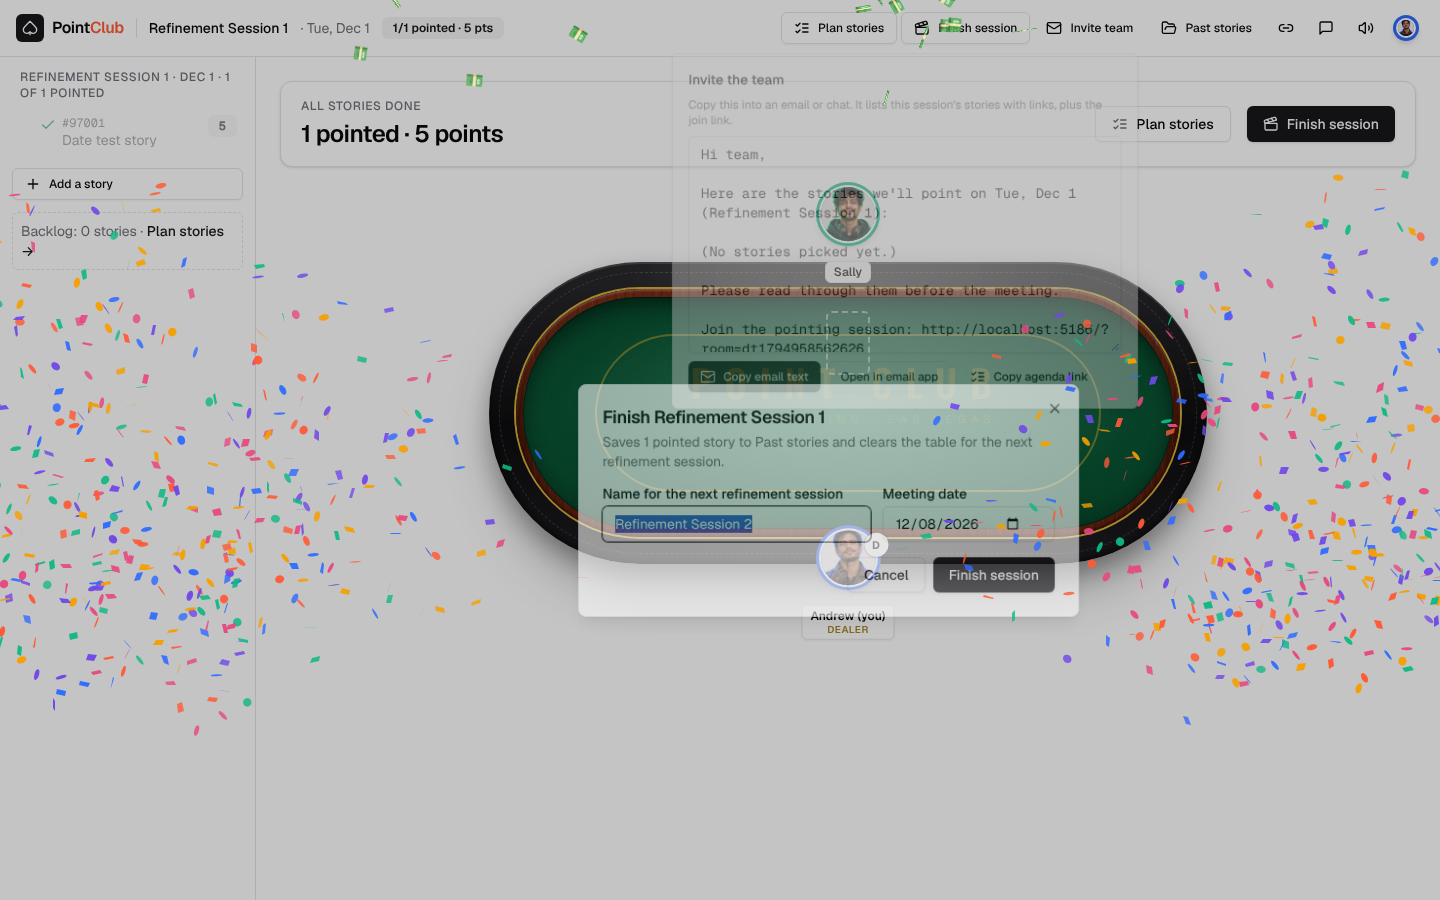
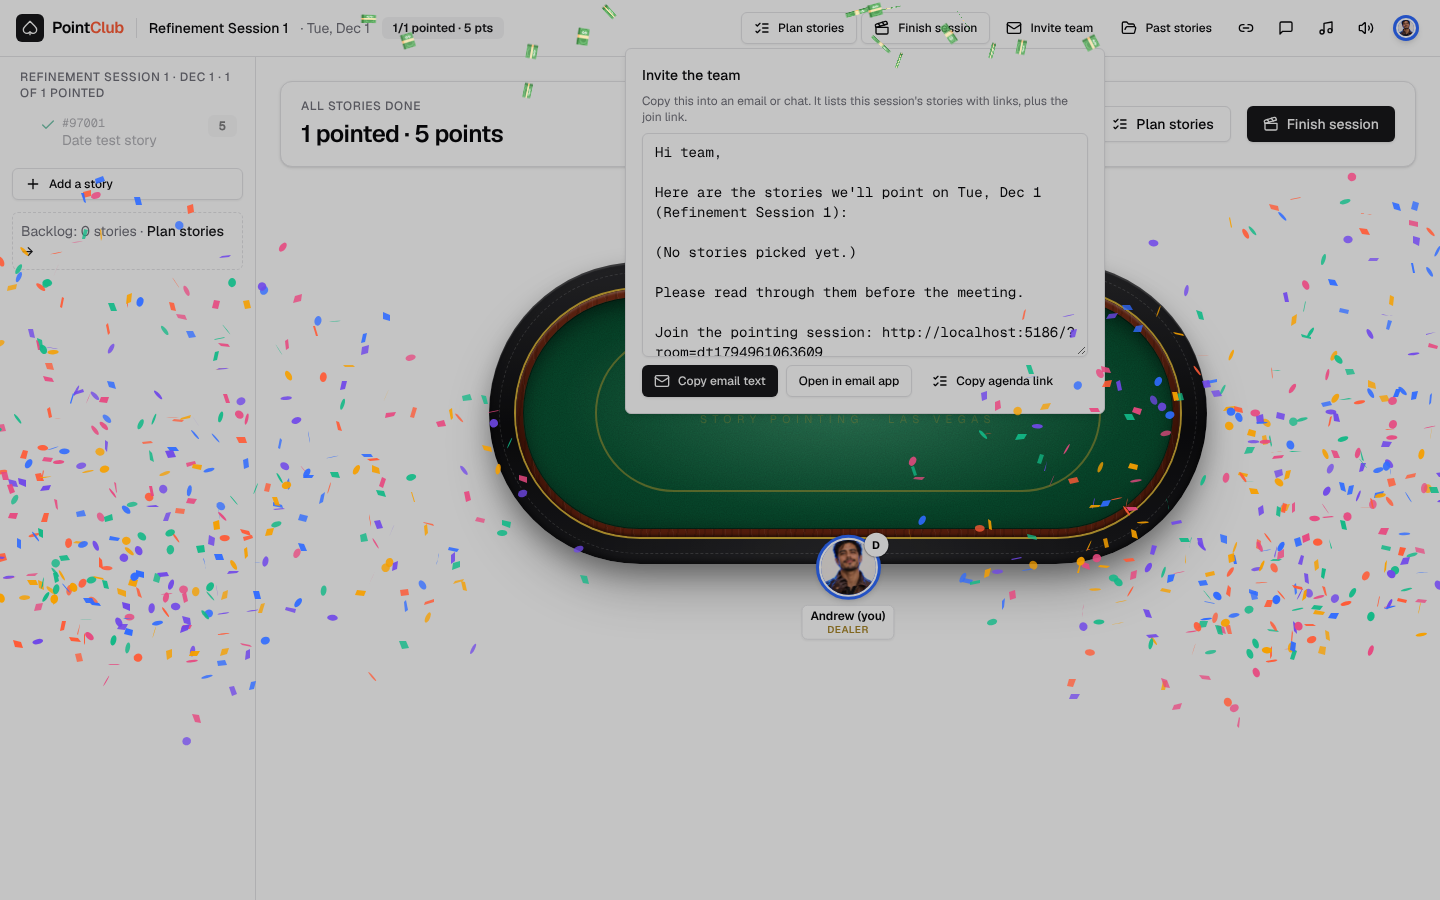
Music follows the dealer: pick any story to start, voting music from the first card, music switch for everyone
- Intro music plays until the dealer clicks any story (any order); no Let's start button
- Stories aren't opened automatically before the session starts; the dealer chooses
- Voting music starts with the first card played and stops once everyone has voted
- Dealer's Music button turns music off or on for the whole table (others see 'Music off')
- Avatar screen: Back to the table button

Claude-Session: https://claude.ai/code/session_01EANrJrMtc4n72hiZrseqCf

diff --git a/src/screens/Theater.tsx b/src/screens/Theater.tsx
@@ -1,6 +1,6 @@
 import { useEffect, useRef, useState } from 'react'
 import { AnimatePresence, motion } from 'framer-motion'
-import { Camera, Clapperboard, Crown, ExternalLink, FolderOpen, Link2, RotateCcw, Volume2, VolumeX, UserRound, Eye, Check, Circle, MessageSquare, MessageSquareOff, ArrowRight, SkipForward, ListChecks, Undo2, Plus, Minus, Trash2, Mail, ArrowUpToLine } from 'lucide-react'
+import { Camera, Clapperboard, Crown, ExternalLink, FolderOpen, Link2, RotateCcw, Volume2, VolumeX, UserRound, Eye, Check, Circle, MessageSquare, MessageSquareOff, ArrowRight, SkipForward, ListChecks, Undo2, Plus, Minus, Trash2, Mail, ArrowUpToLine, Music } from 'lucide-react'
 import { Avatar } from '@/components/Avatar'
 import { PokerTable } from '@/components/PokerTable'
 import { TicketCard, label } from '@/components/TicketCard'
@@ -19,7 +19,7 @@ import { SortableList } from '@/components/SortableList'
 import { NewSprint } from './NewSprint'
 import { Credits } from './Credits'
 import { CAST, castById } from '@/lib/cast'
-import { resetWalkIn, setVoicesEnabled, voice, voicesEnabled, votingMusic, walkInMusic } from '@/lib/voice'
+import { resetWalkIn, setMusicOff, setVoicesEnabled, voice, voicesEnabled, votingMusic, walkInMusic } from '@/lib/voice'
 import { blockbusterBurst, clearFx, sparkleBurst } from '@/lib/fx'
 import { isMuted, setMuted, sfx } from '@/lib/sounds'
 import { cn, sessionDate, sessionIso, sessionName } from '@/lib/utils'
@@ -45,12 +45,15 @@ function QuickAdd({ onAdd }: { onAdd: (number: string, title: string) => Promise
   )
 }
 
+/** Music note with a slash, for "music off". */
+const MusicOff = () => <span className="relative inline-grid"><Music /><span className="absolute left-1/2 top-0 h-full w-0.5 -translate-x-1/2 rotate-45 bg-current" /></span>
+
 function IconBtn({ tip, children, ...p }: React.ComponentProps<typeof Button> & { tip: string }) {
   return <Tooltip><TooltipTrigger asChild><Button variant="ghost" size="icon" aria-label={tip} {...p}>{children}</Button></TooltipTrigger><TooltipContent>{tip}</TooltipContent></Tooltip>
 }
 
 export function Theater({ api, openVault, openPlanner, onLobby }: { api: RoomApi; openVault: () => void; openPlanner: () => void; onLobby: () => void }) {
-  const { room, members, me, current, lineup, backlog, upNext, isDealer, roundVotes, myVote, isHost, result, actions, activeSprint, sprints, mode } = api
+  const { room, members, me, current, lineup, backlog, upNext, isDealer, begun, roundVotes, myVote, isHost, result, actions, activeSprint, sprints, mode } = api
   // A seat shows only for people who have the table open right now (their screen checks in every 30 seconds).
   // Teammates who joined in an earlier week but haven't opened the link today are listed as "Not here yet".
   const [now, setNow] = useState(() => Date.now())
@@ -62,12 +65,14 @@ export function Theater({ api, openVault, openPlanner, onLobby }: { api: RoomApi
   const voters = here.filter((m) => room?.hostVotes || m.id !== room?.hostId)
   const allIn = voters.length > 0 && voters.every((m) => roundVotes.some((v) => v.memberId === m.id))
   // Lounge music while people are voting; it fades out once every card is in or the hand is shown.
-  // Before the dealer clicks "Let's start": walk-in music while people arrive (a session with points has begun).
-  const begun = !!activeSprint?.begunAt || lineup.some((s) => s.points)
+  // Intro music while people arrive, until the dealer picks the first story. The dealer can switch music off for everyone.
+  const musicOff = !!room?.musicOff
+  useEffect(() => { setMusicOff(musicOff) }, [musicOff])
   useEffect(() => { resetWalkIn() }, [activeSprint?.id])
-  useEffect(() => { walkInMusic(!begun && me?.status === 'here') }, [begun, me?.status, activeSprint?.id])
+  useEffect(() => { walkInMusic(!begun && me?.status === 'here' && !musicOff) }, [begun, me?.status, activeSprint?.id, musicOff])
   useEffect(() => () => walkInMusic(false), [])
-  const votingNow = begun && !!current && !current.points && !current.skipped && !room?.revealed && !allIn && me?.status === 'here'
+  // Voting music starts with the first card played and stops once everyone has voted (or the hand is shown).
+  const votingNow = begun && !musicOff && !!current && !current.points && !current.skipped && !room?.revealed && !allIn && roundVotes.length > 0 && me?.status === 'here'
   useEffect(() => { votingMusic(votingNow) }, [votingNow])
   useEffect(() => () => votingMusic(false), [])
   const away = members.filter((m) => m.status === 'away')
@@ -229,6 +234,8 @@ export function Theater({ api, openVault, openPlanner, onLobby }: { api: RoomApi
             <Button variant="ghost" size="sm" onClick={openVault} title="Past stories (every session's stories and votes)"><FolderOpen /><span className="hidden lg:inline">Past stories</span></Button>
             <IconBtn tip={copied ? 'Copied!' : 'Copy room link'} onClick={copyLink}>{copied ? <Check /> : <Link2 />}</IconBtn>
             <IconBtn tip={voices ? 'Turn voice lines off' : 'Turn voice lines on'} onClick={() => { setVoicesEnabled(!voices); setVoices(!voices) }}>{voices ? <MessageSquare /> : <MessageSquareOff />}</IconBtn>
+            {isHost ? <IconBtn tip={musicOff ? 'Music is off for everyone. Click to turn it on' : 'Music is on for everyone. Click to turn it off'} data-testid="music-switch" onClick={() => actions.setMusicOff(!musicOff)}>{musicOff ? <MusicOff /> : <Music />}</IconBtn>
+              : musicOff && <span className="text-xs text-muted-foreground" data-testid="music-off-note">Music off</span>}
             <IconBtn tip={muted ? 'Unmute' : 'Mute'} onClick={() => { setMuted(!muted); setMute(!muted); votingMusic(muted ? votingNow : false); walkInMusic(muted ? !begun : false) }}>{muted ? <VolumeX /> : <Volume2 />}</IconBtn>
             <IconBtn tip="My seat (lobby)" onClick={onLobby}>{me ? <Avatar character={me.character} name={me.name} size={26} /> : <UserRound />}</IconBtn>
           </div>
@@ -251,7 +258,7 @@ export function Theater({ api, openVault, openPlanner, onLobby }: { api: RoomApi
                 <div role="button" tabIndex={isHost ? 0 : -1} onClick={() => isHost && actions.selectStory(s.id)} data-testid="session-row"
                   onKeyDown={(e) => { if (isHost && e.key === 'Enter') actions.selectStory(s.id) }}
                   title={s.points ? `Done: ${s.points} points. Click to view or revote.` : s.skipped ? `Skipped, back in the backlog${s.note ? `: ${s.note}` : ''}` : s.note || undefined}
-                  className={cn('group flex items-start gap-1.5 rounded-md px-1.5 py-1.5 text-left text-sm transition-colors', isHost ? 'cursor-pointer' : 'cursor-default',
+                  className={cn('group flex items-start gap-1.5 rounded-md px-1.5 py-1.5 text-left text-sm transition-colors', isHost ? 'cursor-pointer' : 'cursor-default', isHost && !begun && !s.points && 'ring-1 ring-primary/40 animate-pulse',
                     s.id === current?.id ? 'bg-secondary font-medium' : 'hover:bg-secondary/60 text-muted-foreground',
                     (s.points || s.skipped) && s.id !== current?.id && 'opacity-55')}>
                   {isHost && handle}
@@ -295,10 +302,11 @@ export function Theater({ api, openVault, openPlanner, onLobby }: { api: RoomApi
             <div className="flex items-center gap-4 rounded-xl border-2 border-primary/30 bg-primary/[0.06] px-5 py-4" data-testid="start-banner">
               <div className="flex-1">
                 <div className="text-lg font-semibold">{activeSprint ? sessionName(activeSprint.name) : 'Refinement session'} · {sessionDate(activeSprint)}</div>
-                <div className="text-sm text-muted-foreground">{isHost ? 'Everyone here? Start when the team is seated.' : 'Grab a seat. The dealer will start in a moment.'}</div>
+                <div className="text-sm text-muted-foreground">{isHost
+                  ? (lineup.length ? <>Everyone here? <b className="text-foreground">Click any story on the left</b> to start pointing it. The music stops when you do.</> : 'Everyone here? Add stories with + Add a story or Plan stories, then click one to start.')
+                  : 'Grab a seat. The dealer will pick the first story.'}</div>
               </div>
-              {isHost ? <Button size="lg" onClick={() => { walkInMusic(false); actions.beginSession() }} data-testid="lets-start">Let's start <ArrowRight /></Button>
-                : <span className="text-sm font-medium text-muted-foreground">Waiting for the dealer to start</span>}
+              {!isHost && <span className="text-sm font-medium text-muted-foreground">Waiting for the dealer</span>}
             </div>
           )}
           <Card>

diff --git a/src/lib/useRoom.ts b/src/lib/useRoom.ts
@@ -82,6 +82,8 @@ export function useRoom(roomId: string) {
   const activeSprint = sprints.find((s) => s.id === room?.activeSprintId) ?? null
   const lineup = stories.filter((s) => s.sprintId === activeSprint?.id).sort((a, b) => a.order - b.order)
   const current = stories.find((s) => s.id === room?.currentStoryId) ?? null
+  /** The session starts when the dealer picks the first story (or once anything is pointed). Until then, intro music plays. */
+  const begun = !!activeSprint?.begunAt || lineup.some((s) => s.points)
   const roundVotes = votes.filter((v) => v.storyId === current?.id && v.round === room?.round)
   const myVote = roundVotes.find((v) => v.memberId === meId)?.value ?? null
   const isHost = !!room && room.hostId === meId
@@ -184,7 +186,9 @@ export function useRoom(roomId: string) {
     },
     async selectStory(id: string) {
       const s = stories.find((x) => x.id === id)
-      // A pointed story opens locked (showing its points); the host can revote it on purpose.
+      // Picking the first story (any one, in any order) starts the session and ends the intro music.
+      if (s && activeSprint && !begun) await db.upsertSprint({ ...activeSprint, begunAt: Date.now() })
+      // A pointed story opens locked (showing its points); the dealer can revote it on purpose.
       if (s) await patchRoom({ currentStoryId: id, revealed: false, round: s.rounds })
     },
     /** Reopen voting on a story that already has points. */
@@ -210,7 +214,7 @@ export function useRoom(roomId: string) {
         url: r.url?.trim() || buildAdoUrl(pattern, r.number), points: null, outcome: null, rounds: 1, order: base + i, skipped: false, note: '',
       }))
       if (created.length) { putLocal(created); await db.upsertStories(created) }
-      if (to === 'session' && created.length && (!room.currentStoryId || !stories.some((s) => s.id === room.currentStoryId && s.sprintId === activeSprint.id)))
+      if (to === 'session' && created.length && begun && (!room.currentStoryId || !stories.some((s) => s.id === room.currentStoryId && s.sprintId === activeSprint.id)))
         await patchRoom({ currentStoryId: created[0].id, revealed: false, round: 1 })
       return { added: created, skipped: rows.length - created.length }
     },
@@ -238,7 +242,8 @@ export function useRoom(roomId: string) {
       const base = lineup.length ? Math.max(...lineup.map((s) => s.order)) + 1 : 0
       const moved = upNext.map((s, i) => ({ ...s, sprintId: activeSprint.id, order: base + i, skipped: false }))
       putLocal(moved); await db.upsertStories(moved)
-      if (!current || current.sprintId !== activeSprint.id) await patchRoom({ currentStoryId: moved[0].id, revealed: false, round: moved[0].rounds })
+      // Before the session starts the dealer picks which story to point first; after that, the next one comes up.
+      if (begun && (!current || current.sprintId !== activeSprint.id)) await patchRoom({ currentStoryId: moved[0].id, revealed: false, round: moved[0].rounds })
     },
     /** Put a story (from the table or the Next session list) back at the top of the backlog. */
     async moveToBacklog(id: string) {
@@ -262,6 +267,8 @@ export function useRoom(roomId: string) {
       await patchRoom({ hostVotes: on })
       if (!on && current && room) await db.removeVote(`${current.id}:${room.round}:${meId}`)
     },
+    /** Dealer's switch: music on or off for everyone at the table. */
+    async setMusicOff(off: boolean) { await patchRoom({ musicOff: off }) },
     async setNextCount(n: number) { await patchRoom({ nextCount: Math.max(1, Math.min(30, Math.round(n))) }) },
     async editStory(s: Story) { putLocal([s]); await db.upsertStories([s]) },
     async removeStory(id: string) {
@@ -307,6 +314,6 @@ export function useRoom(roomId: string) {
     },
   }
 
-  return { ready, error, mode: db.mode, meId, me, room, members, sprints, stories, votes, activeSprint, lineup, backlog, upNext, current, roundVotes, myVote, isHost, isDealer, result, actions }
+  return { ready, error, mode: db.mode, meId, me, room, members, sprints, stories, votes, activeSprint, lineup, backlog, upNext, current, roundVotes, myVote, isHost, isDealer, begun, result, actions }
 }
 export type RoomApi = ReturnType<typeof useRoom>

diff --git a/src/screens/Lobby.tsx b/src/screens/Lobby.tsx
@@ -1,5 +1,5 @@
 import { useState } from 'react'
-import { Armchair, Palmtree, Pencil, LogOut, ArrowRight } from 'lucide-react'
+import { ArrowLeft, Armchair, Palmtree, Pencil, LogOut, ArrowRight } from 'lucide-react'
 import { Avatar } from '@/components/Avatar'
 import { Logo } from '@/components/Logo'
 import { Button } from '@/components/ui/button'
@@ -27,14 +27,16 @@ export function Lobby({ api, onEnter }: { api: RoomApi; onEnter: () => void }) {
     const c = castById(me.character)
     return (
       <div className="min-h-screen grid place-items-center p-6">
-        <Card className="w-[440px]">
-          <CardHeader className="items-center text-center">
+        <Card className="relative w-[440px]">
+          <button className="absolute left-4 top-4 flex items-center gap-1 rounded-md px-2 py-1 text-sm text-muted-foreground hover:bg-secondary hover:text-foreground" data-testid="back-to-table"
+            onClick={async () => { await actions.setStatus('here'); onEnter() }}><ArrowLeft className="h-4 w-4" /> Back to the table</button>
+          <CardHeader className="items-center pt-12 text-center">
             <Avatar character={me.character} name={me.name} size={112} mood="cheer" />
-            <CardTitle className="text-2xl pt-3">Welcome back, {me.name}</CardTitle>
-            <CardDescription>{me.status === "away" ? "Marked away" : "Good to see you again."}</CardDescription>
+            <CardTitle className="text-2xl pt-3">{me.name}</CardTitle>
+            <CardDescription>{me.status === "away" ? "You're marked away." : "Your seat at the table."}</CardDescription>
           </CardHeader>
           <CardContent className="grid gap-2">
-            <Button size="lg" onClick={async () => { await actions.setStatus('here'); onEnter() }}><Armchair /> Take my seat</Button>
+            <Button size="lg" onClick={async () => { await actions.setStatus('here'); onEnter() }}><Armchair /> {me.status === 'away' ? "I'm here, take my seat" : 'Back to the table'}</Button>
             <div className="grid grid-cols-3 gap-2">
               <Button variant="outline" onClick={async () => { await actions.setStatus('away'); onEnter() }}><Palmtree /> Away</Button>
               <Button variant="outline" onClick={() => setEditing(true)}><Pencil /> Change</Button>

diff --git a/src/lib/voice.ts b/src/lib/voice.ts
@@ -33,11 +33,15 @@ function fx(name: string, volume = 0.6) {
 }
 
 const POINT_LINES = new Set(['1', '2', '3', '5', '8', '13', '21'])
+/** The dealer's table-wide music switch. Sound effects and voice lines are unaffected. */
+let musicOff = false
+export function setMusicOff(off: boolean) { musicOff = off; if (off) { votingMusic(false); walkInMusic(false) } }
+
 /** Quiet looping music while the team votes. One shared player; fades in and out. Respects mute. */
 let thinking: HTMLAudioElement | null = null
 let fadeT: ReturnType<typeof setInterval> | null = null
 export function votingMusic(on: boolean, volume = 0.18) {
-  if (on && isMuted()) on = false
+  if (on && (isMuted() || musicOff)) on = false
   if (on && !thinking) { thinking = new Audio('/sfx/sfx/thinking.mp3'); thinking.loop = true; thinking.volume = 0; (window as any).__votingMusic = thinking }
   if (!thinking) return
   const a = thinking
@@ -53,7 +57,7 @@ export function votingMusic(on: boolean, volume = 0.18) {
 
 /** Upbeat credits music. Returns a stop function that fades it out. Respects mute. */
 export function playMusic(name = 'credits', volume = 0.45, fadeAfterMs?: number): () => void {
-  if (isMuted()) return () => {}
+  if (isMuted() || musicOff) return () => {}
   const a = new Audio(`/sfx/sfx/${name}.mp3`)
   ;(window as any).__creditsMusic = a
   a.volume = volume
@@ -74,7 +78,7 @@ let walkFade: ReturnType<typeof setInterval> | null = null
 let walkCap: ReturnType<typeof setTimeout> | null = null
 let walkDone = false // after the 60-second cap, stay quiet until the next session
 export function walkInMusic(on: boolean, volume = 0.3) {
-  if (on && (isMuted() || walkDone)) on = false
+  if (on && (isMuted() || walkDone || musicOff)) on = false
   if (on && !walkIn) { walkIn = new Audio('/sfx/sfx/credits.mp3'); walkIn.loop = true; walkIn.volume = 0; (window as any).__walkInMusic = walkIn }
   if (!walkIn) return
   const a = walkIn

diff --git a/api/_core.ts b/api/_core.ts
@@ -8,7 +8,7 @@ const t = (name: string): Col => ({ name, type: 'text' })
 const i = (name: string): Col => ({ name, type: 'int' })
 const b = (name: string): Col => ({ name, type: 'bigint' })
 const TABLES = {
-  rooms: [t('id'), t('name'), t('host_id'), t('active_sprint_id'), t('current_story_id'), { name: 'revealed', type: 'bool' }, i('round'), t('ado_pattern'), i('next_count'), { name: 'host_votes', type: 'bool' }],
+  rooms: [t('id'), t('name'), t('host_id'), t('active_sprint_id'), t('current_story_id'), { name: 'revealed', type: 'bool' }, i('round'), t('ado_pattern'), i('next_count'), { name: 'host_votes', type: 'bool' }, { name: 'music_off', type: 'bool' }],
   members: [t('id'), t('room_id'), t('name'), t('character'), t('status'), b('last_seen')],
   sprints: [t('id'), t('room_id'), t('name'), t('title'), b('started_at'), b('closed_at'), t('meeting_date'), b('begun_at')],
   stories: [t('id'), t('room_id'), t('sprint_id'), t('number'), t('title'), t('url'), t('points'), t('outcome'), i('rounds'), i('order'), { name: 'skipped', type: 'bool' }, t('note')],

diff --git a/src/lib/types.ts b/src/lib/types.ts
@@ -61,6 +61,8 @@ export interface Room {
   nextCount?: number | null
   /** The host deals (doesn't vote) unless this is true. */
   hostVotes?: boolean | null
+  /** Dealer turned music off for the whole table. */
+  musicOff?: boolean | null
 }
 export interface Snapshot {
   room: Room | null
